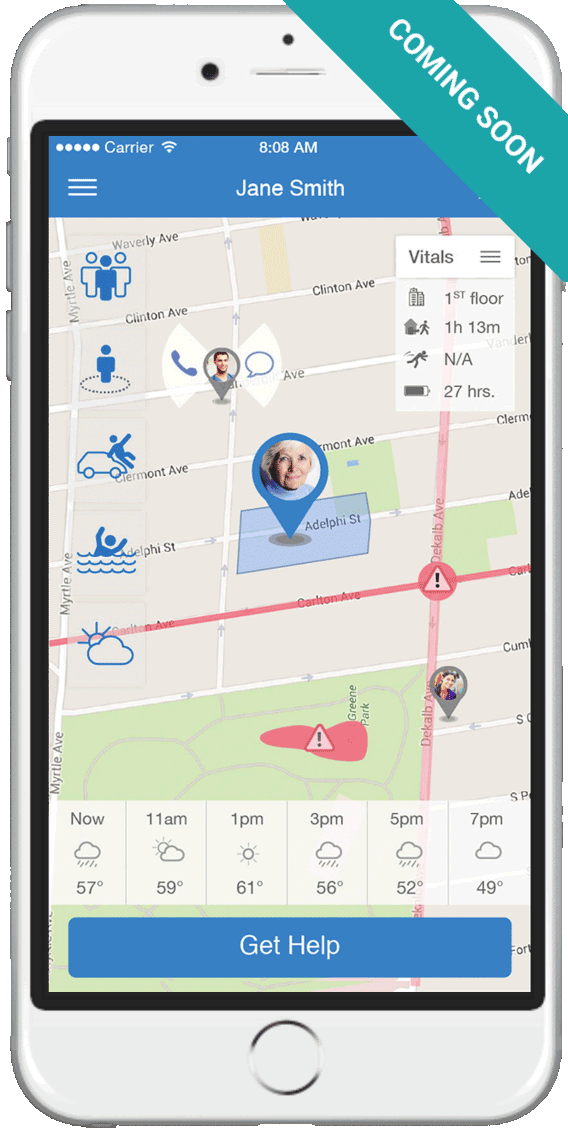
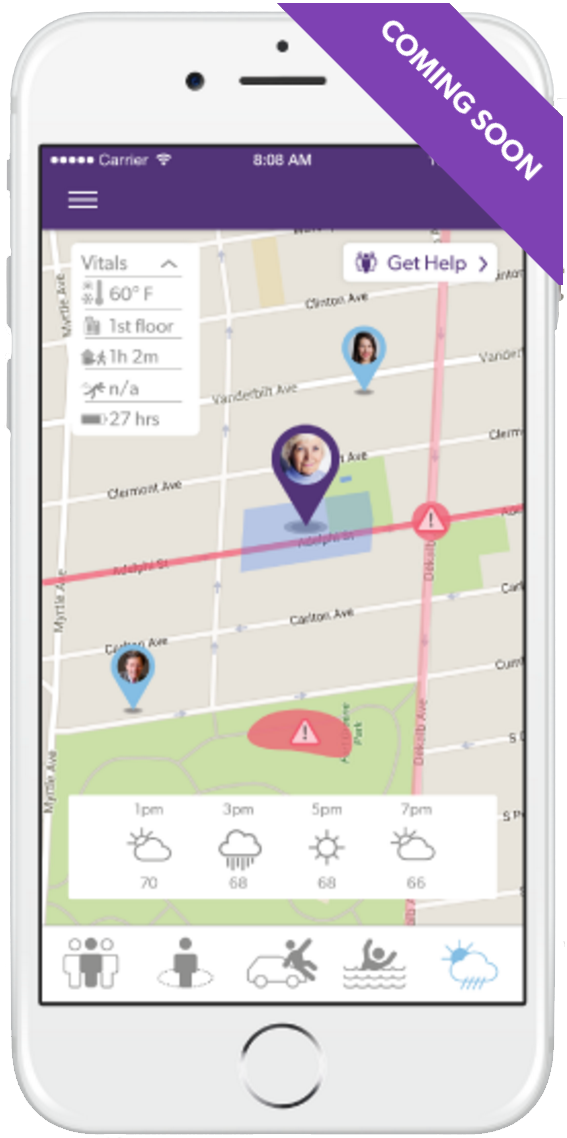
Update coming soon screen shot. Update news page.

diff --git a/app/news.html b/app/news.html
@@ -93,8 +93,8 @@
             <div class="bg-news">
             </div>
             <div class="flex-caption container">
-                <h3 class="title"><a href="http://www.dorsetecho.co.uk/news/14398023.New_group_to_improve_dementia_services_in_Dorset_holds_first_conference/" target="_blank">New group to improve dementia services in Dorset holds first conference</a></h3>
-                <h5>3rd April, 2016 | Dorset Echo・By Tom Beasley</h5>
+                <h3 class="title"><a href="http://www.midweekherald.co.uk/news/packed_out_annual_general_meeting_for_dementia_action_alliance_1_4483560" target="_blank">Packed out annual general meeting for dementia action alliance</a></h3>
+                <h5>5th April, 2016 | Dorset Echo・By Callum Lawton</h5>
             </div><!--//flex-caption-->
         </div><!--//flexslider-->
     </section><!--//featured-blog-posts-->
@@ -104,6 +104,57 @@
             <div id="blog-mansonry" class="news-list col-md-8">
 
                 <article class="post col-md-6 col-sm-6 col-xs-12">
+                    <div class="post-inner">
+                        <figure class="post-thumb">
+                            <a href="http://www.walesonline.co.uk/news/local-news/heres-how-blaenau-gwent-leading-11140921" target="_blank"><img class="img-responsive" src="http://i2.walesonline.co.uk/incoming/article11142445.ece/ALTERNATES/s615/Dementia-Friendly-Towns-5JPG.jpg" alt="" /></a>
+                        </figure><!--//post-thumb-->
+                        <div class="content">
+                            <h3 class="post-title"><a href="http://www.walesonline.co.uk/news/local-news/heres-how-blaenau-gwent-leading-11140921" target="_blank">Here's how Blaenau Gwent is leading the way in creating dementia-friendly communities</a></h3>
+                            <div class="meta">
+                                <ul class="meta-list list-inline">
+                                    <li class="post-time post_date date updated">5th April, 2016</li>
+                                    <li class="post-author">WalesOnline・By Tom Houghton</li>
+                                </ul><!--//meta-list-->
+                            </div><!--meta-->
+                        </div><!--//content-->
+                    </div><!--//post-inner-->
+                </article><!--//post-->
+
+                <article class="post col-md-6 col-sm-6 col-xs-12">
+                    <div class="post-inner">
+                        <figure class="post-thumb">
+                            <a href="http://www.theboltonnews.co.uk/comment/columns_blogs_columnists/14404072.All_hospitals_and_public_areas_should_be_dementia_friendly/" target="_blank"><img class="img-responsive" src="http://www.bedfordtoday.co.uk/webimage/1.7301818.1459266682!/image/image.jpg_gen/derivatives/articleMaxWidth_620/image.jpg" alt="" /></a>
+                        </figure><!--//post-thumb-->
+                        <div class="content">
+                            <h3 class="post-title"><a href="http://www.theboltonnews.co.uk/comment/columns_blogs_columnists/14404072.All_hospitals_and_public_areas_should_be_dementia_friendly/" target="_blank">MP joins music and dancing session at Tibbs Dementia Foundation</a></h3>
+                            <div class="meta">
+                                <ul class="meta-list list-inline">
+                                    <li class="post-time post_date date updated">5th April, 2016</li>
+                                    <li class="post-author">The Bolton News・By Arup Banerjee</li>
+                                </ul><!--//meta-list-->
+                            </div><!--meta-->
+                        </div><!--//content-->
+                    </div><!--//post-inner-->
+                </article><!--//post-->
+
+                <article class="post col-md-6 col-sm-6 col-xs-12 wow animated fadeInUp">
+                    <div class="post-inner">
+                        <figure class="post-thumb">
+                            <a href="http://www.dorsetecho.co.uk/news/14398023.New_group_to_improve_dementia_services_in_Dorset_holds_first_conference/" target="_blank"><img class="img-responsive" src="http://www.dorsetecho.co.uk/resources/images/4906070/?type=responsive-gallery" alt="" /></a>
+                        </figure><!--//post-thumb-->
+                        <div class="content">
+                            <h3 class="post-title"><a href="http://www.dorsetecho.co.uk/news/14398023.New_group_to_improve_dementia_services_in_Dorset_holds_first_conference/" target="_blank">New group to improve dementia services in Dorset holds first conference</a></h3>
+                            <div class="meta">
+                                <ul class="meta-list list-inline">
+                                    <li class="post-time post_date date updated">3rd April, 2016</li>
+                                    <li class="post-author">Dorset Echo・By Tom Beasley</li>
+                                </ul><!--//meta-list-->
+                            </div><!--meta-->
+                        </div><!--//content-->
+                    </div><!--//post-inner-->
+                </article><!--//post-->
+
+                <article class="post col-md-6 col-sm-6 col-xs-12 wow animated fadeInUp">
                     <div class="post-inner">
                         <figure class="post-thumb">
                             <a href="http://www.darlingtonandstocktontimes.co.uk/news/14401053.New_dementia_champion_for_North_Yorkshire_community/" target="_blank"><img class="img-responsive" src="http://www.darlingtonandstocktontimes.co.uk/resources/images/4911720.jpg?display=1&htype=0&type=mc3" alt="" /></a>
@@ -120,7 +171,7 @@
                     </div><!--//post-inner-->
                 </article><!--//post-->
 
-                <article class="post col-md-6 col-sm-6 col-xs-12">
+                <article class="post col-md-6 col-sm-6 col-xs-12 wow animated fadeInUp">
                     <div class="post-inner">
                         <figure class="post-thumb">
                             <a href="http://www.bedfordtoday.co.uk/news/local/mp-joins-music-and-dancing-session-at-tibbs-dementia-foundation-1-7301819" target="_blank"><img class="img-responsive" src="http://www.bedfordtoday.co.uk/webimage/1.7301818.1459266682!/image/image.jpg_gen/derivatives/articleMaxWidth_620/image.jpg" alt="" /></a>

diff --git a/app/assets/css/styles.css b/app/assets/css/styles.css
@@ -865,7 +865,7 @@ select {
     box-shadow: none;
 }
 .latest-news .bg-news {
-    background: url('http://tinyurl.com/h6hpyde') no-repeat 50% 20%;
+    background: url('http://tinyurl.com/hhgrl3o') no-repeat 50% 20%;
     background-size: cover;
     width: 100%;
     height: 450px;
@@ -1480,6 +1480,28 @@ select {
     max-width: 70%;
     height: auto;
     padding-bottom: 30px;
+}
+.apps-section .ribbon {
+    position: absolute;
+    right: 94px;
+    width: 150px;
+    height: 141px;
+    z-index: 1;
+    overflow: hidden;
+}
+.apps-section .ribbon .text {
+    position: relative;
+    left: -10px;
+    top: 18px;
+    width: 217px;
+    padding: 20px;
+    font-size: 15px;
+    font-weight: 600;
+    text-transform: uppercase;
+    text-align: center;
+    color: #FFF;
+    background-color: #7645AD;
+    transform: rotate(45deg) translate3d(0px, 0px, 0px);
 }
 .apps-section .phone-holder {
     width: 324px;
@@ -3162,7 +3184,7 @@ select {
         padding-right: 15px;
     }
     .download-page .headline-bg {
-        height: 1600px;
+        height: 2000px;
     }
     .story-section .about {
         padding: 0;
@@ -3324,6 +3346,9 @@ select {
         -moz-background-size: cover;
         -o-background-size: cover;
         background-size: cover;
+    }
+    .apps-section .ribbon {
+        right: 28px;
     }
     .blog-page .header-blog {
         position: relative;
@@ -3536,6 +3561,9 @@ select {
         -moz-background-size: cover;
         -o-background-size: cover;
         background-size: cover;
+    }
+    .apps-section .ribbon {
+        right: 94px;
     }
     .promo {
         height: 620px;
